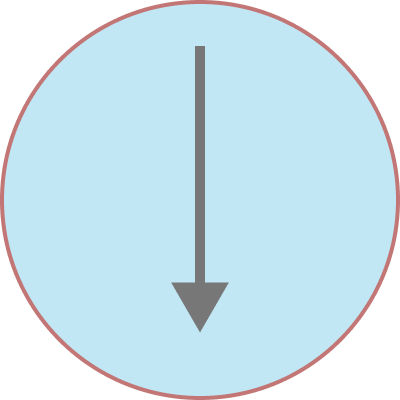
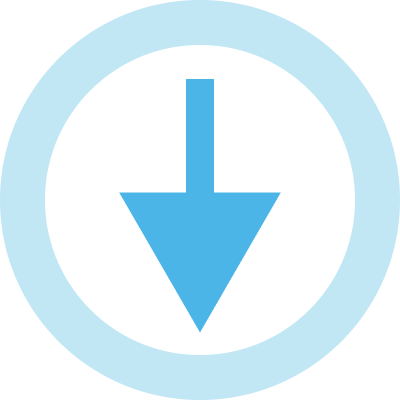
added additional graphic assets. its literally 11pm pls let me sleep

diff --git a/proper/src/components/Panels.jsx b/proper/src/components/Panels.jsx
@@ -1,5 +1,5 @@
 import './Panels.css';
-import Arrow from '../assets/arrows.png'
+import CinnArrow from '../assets/cinnarrows.png'
 //import Panel from '../assets/panel.png';
 //import Pole from '../assets/panel_pole.png';
 
@@ -20,7 +20,7 @@ function Panels() {
           </div>
         </div>
         <div className='lowerguide'>
-          <img src={Arrow}></img>
+          <img src={CinnArrow}></img>
         </div>
     </>
   );

diff --git a/proper/src/components/Panels.css b/proper/src/components/Panels.css
@@ -63,13 +63,15 @@
 }
 
 .lowerguide{
-    background-color: black;
     position:absolute;
     bottom:30px;
-    left:50%;
+    left:45%;
 }
 
 .lowerguide img{
+    height: 200px;
+    width:200px;
+    border: 1px solid black;
 }
 @keyframes bounce {
     0%, 20%, 50%, 80%, 100% { transform: translateY(0); } 
